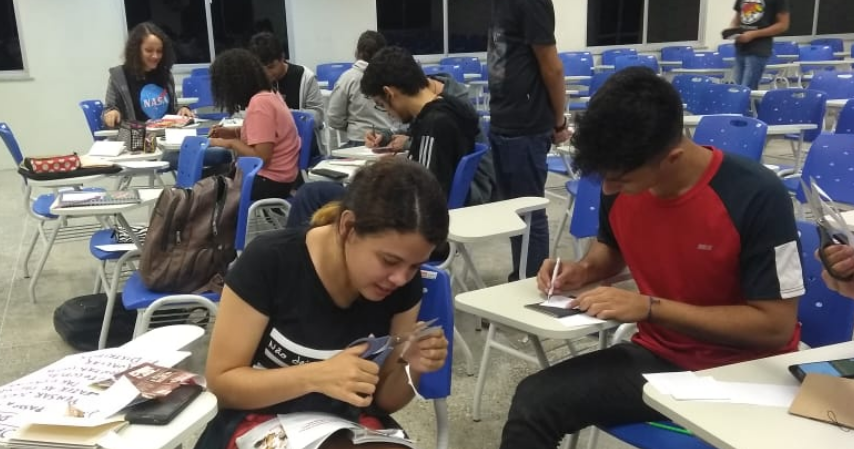
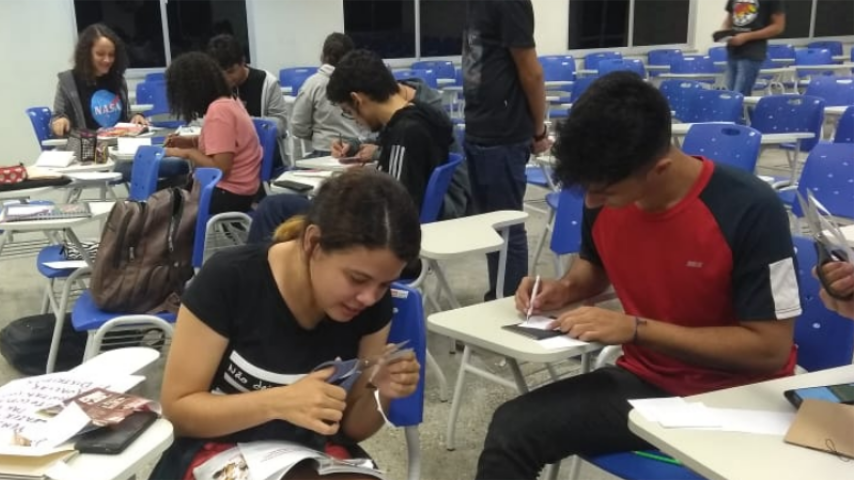
at fotos e capas redimensionadas

diff --git a/_posts/2019-03-08-passeio.md b/_posts/2019-03-08-passeio.md
@@ -4,7 +4,7 @@ layout: post
 title: Passeio no açude Cedro
 subtitle: Veja como foi esse dia aventureiro.
 description: 
-image: https://raw.githubusercontent.com/pacceqx/pacceqx.github.io/master/assets/pic/2019-03-08/capa.jpg
+image: https://raw.githubusercontent.com/pacceqx/pacceqx.github.io/master/assets/pic/2019-03-08/capa.png
 optimized_image: 
 category: evento
 tags:
@@ -16,14 +16,14 @@ author: lorenaamaro
 O Programa de Aprendizagem Cooperativa em Células Estudantis (PACCE) realizou, nos dias 7 e 8 de Março, um passeio ao Cedro, um dos pontos turísticos da cidade de Quixadá-CE.
 </p>
 
-![](https://raw.githubusercontent.com/pacceqx/pacceqx.github.io/master/assets/pic/2019-03-08/img1.jpg)
+![](https://raw.githubusercontent.com/pacceqx/pacceqx.github.io/master/assets/pic/2019-03-08/img1.png)
 
-![](https://raw.githubusercontent.com/pacceqx/pacceqx.github.io/master/assets/pic/2019-03-08/img2.jpg)
+![](https://raw.githubusercontent.com/pacceqx/pacceqx.github.io/master/assets/pic/2019-03-08/img2.png)
 
 <p style = "text-align: justify">
  O público-alvo foram os alunos calouros do campus, mas aberto a todo o corpo discente da universidade. O clima foi agradável, e a interação entre os estudantes foi promovida com êxito.
 </p>
-![](https://raw.githubusercontent.com/pacceqx/pacceqx.github.io/master/assets/pic/2019-03-08/img3.jpg)
+![](https://raw.githubusercontent.com/pacceqx/pacceqx.github.io/master/assets/pic/2019-03-08/img3.png)
 
-![](https://raw.githubusercontent.com/pacceqx/pacceqx.github.io/master/assets/pic/2019-03-08/img4.jpg)
+![](https://raw.githubusercontent.com/pacceqx/pacceqx.github.io/master/assets/pic/2019-03-08/img4.png)
 

diff --git a/_posts/2019-02-14-processo-seletivo.md b/_posts/2019-02-14-processo-seletivo.md
@@ -12,21 +12,21 @@ tags:
 author: lorenaamaro
 paginate: true
 ---
-![](https://raw.githubusercontent.com/pacceqx/pacceqx.github.io/master/assets/pic/2019-02-14/img1.jpg)
+![](https://raw.githubusercontent.com/pacceqx/pacceqx.github.io/master/assets/pic/2019-02-14/img1.png)
 
 
 <p style = "text-align: justify">
 O processo seletivo para bolsistas do PACCE de 2019 ocorreu nos dias 14 e 15 de Fevereiro. Do total de 15 bolsas, foram selecionados 8 veteranos e 7 calouros, que passaram por oficinas e uma entrevista avaliadora. O programa recebe, todo ano, um alto número de inscrições para seleção e ainda conta com alunos que se voluntariam à bolsa, mesmo sem direito à remuneração.
 </p>
 
-![](https://raw.githubusercontent.com/pacceqx/pacceqx.github.io/master/assets/pic/2019-02-14/img2.jpg)
+![](https://raw.githubusercontent.com/pacceqx/pacceqx.github.io/master/assets/pic/2019-02-14/img2.png)
 
 
 <p style = "text-align: justify">
 Neste ano de 2019, o número de voluntários foi de 9 alunos, entre veteranos e calouros de cursos variados.
 </p>
 
-![](https://raw.githubusercontent.com/pacceqx/pacceqx.github.io/master/assets/pic/2019-02-14/img3.jpg)
+![](https://raw.githubusercontent.com/pacceqx/pacceqx.github.io/master/assets/pic/2019-02-14/img3.png)
 
 
 <p style = "text-align: justify">
@@ -47,7 +47,7 @@ Paula Luana Oliveira da Silva <br>
 Shelida Crislane Matias Monte.
 </p>
 
-![](https://raw.githubusercontent.com/pacceqx/pacceqx.github.io/master/assets/pic/2019-02-14/img4.jpg)
+![](https://raw.githubusercontent.com/pacceqx/pacceqx.github.io/master/assets/pic/2019-02-14/img4.png)
 
 <p>
 Os alunos que se voluntariaram ao programa foram:<br>

diff --git a/_posts/2019-05-04-visita-ao-remanso.md b/_posts/2019-05-04-visita-ao-remanso.md
@@ -4,7 +4,7 @@ layout: post
 title: Visita ao lar de idosos
 subtitle: Clique para ver como foi essa visita emocionante.
 description: 
-image: https://raw.githubusercontent.com/pacceqx/pacceqx.github.io/master/assets/pic/2019-05-04/capa.jpg
+image: https://raw.githubusercontent.com/pacceqx/pacceqx.github.io/master/assets/pic/2019-05-04/capa.png
 optimized_image:
 category: noticia
 tags:
@@ -14,7 +14,7 @@ author: lorenaamaro
 paginate: true
 ---
 
-![](https://raw.githubusercontent.com/pacceqx/pacceqx.github.io/master/assets/pic/2019-05-04/img1.jpg)
+![](https://raw.githubusercontent.com/pacceqx/pacceqx.github.io/master/assets/pic/2019-05-04/img1.png)
 
 
 <p style = "text-align: justify">
@@ -23,7 +23,7 @@ No dia 04 de Maio, Sábado, os bolsistas do PACCE realizaram a formação semana
 que fica localizada na Rua Rui Barbosa 63900, Quixadá. Foram realizadas atividades diversas como história de vida, música acústica com os bolsistas Lorena Amaro e Fábio Luz, momento de conversa e dança (forró). Dentre as atividades, um momento especial: Uma homenagem a um dos idosos que estava aniversariando, o Sr. Rodrigues.
 </p>
 
-![](https://raw.githubusercontent.com/pacceqx/pacceqx.github.io/master/assets/pic/2019-05-04/img2.jpg)
+![](https://raw.githubusercontent.com/pacceqx/pacceqx.github.io/master/assets/pic/2019-05-04/img2.png)
 
 <p style = "text-align: justify">
  O PACCE mostra que seus pilares, em especial as habilidades sociais, vão além dos muros da universidade e que boas ações sempre devem ser compartilhadas. Espalhe o amor!

diff --git a/_posts/2019-04-11-visita-navi.md b/_posts/2019-04-11-visita-navi.md
@@ -4,7 +4,7 @@ layout: post
 title: Visita ao NAVI do IFCE
 subtitle: Encontro realizado pela célula de audiovisual.
 description: 
-image: https://raw.githubusercontent.com/pacceqx/pacceqx.github.io/master/assets/pic/2019-04-11/capa.jpg
+image: https://raw.githubusercontent.com/pacceqx/pacceqx.github.io/master/assets/pic/2019-04-11/capa.png
 optimized_image: 
 category: noticia
 tags:
@@ -25,11 +25,11 @@ paginate: true
 No dia 11 de Abril, Quinta, a célula de audiovisual fez uma visita ao NAVI, um núcleo de pesquisa e experimentos audiovisuais do Instituto Federal do Ceará (IFCE), Campus Quixadá. A visita foi aprovada pelo diretor do laboratório de audiovisual, Geraldo, que falou sobre processos de construção de vídeo, roteiro e planos de câmera. Essa galerinha deu show!
 </p>
 
-![](https://raw.githubusercontent.com/pacceqx/pacceqx.github.io/master/assets/pic/2019-04-11/img1.jpg)
+![](https://raw.githubusercontent.com/pacceqx/pacceqx.github.io/master/assets/pic/2019-04-11/img1.png)
 
-![](https://raw.githubusercontent.com/pacceqx/pacceqx.github.io/master/assets/pic/2019-04-11/img2.jpg)
+![](https://raw.githubusercontent.com/pacceqx/pacceqx.github.io/master/assets/pic/2019-04-11/img2.png)
 
-![](https://raw.githubusercontent.com/pacceqx/pacceqx.github.io/master/assets/pic/2019-04-11/img3.jpg)
+![](https://raw.githubusercontent.com/pacceqx/pacceqx.github.io/master/assets/pic/2019-04-11/img3.png)
 
 
 

diff --git a/_posts/2019-05-08-roda-conversa.md b/_posts/2019-05-08-roda-conversa.md
@@ -4,7 +4,7 @@ layout: post
 title: Roda de conversa
 subtitle: Encontro realizado pela célula de desenvolvimento web.
 description: 
-image: https://raw.githubusercontent.com/pacceqx/pacceqx.github.io/master/assets/pic/2019-05-08/capa.jpg
+image: https://raw.githubusercontent.com/pacceqx/pacceqx.github.io/master/assets/pic/2019-05-08/capa.png
 optimized_image: 
 category: evento
 tags:
@@ -23,7 +23,7 @@ No dia 8 de Maio, Quarta, de 13:30 às 15:30, O PACCE, juntamente com a célula 
  Atualmente, é professor assistente e vice coordenador do curso de Sistemas de Informação, na Universidade Federal do Ceará (UFC), no campus de Quixadá. <br><br>
  </p>
 
-![](https://raw.githubusercontent.com/pacceqx/pacceqx.github.io/master/assets/pic/2019-05-08/img1.jpeg)
+![](https://raw.githubusercontent.com/pacceqx/pacceqx.github.io/master/assets/pic/2019-05-08/img1.png)
 
 <p style = "text-align: justify">
  Tivemos também a participação do aluno Emerson Vieira, graduando de Engenharia de Software, na Universidade Federal do Ceará (UFC), Campus Quixadá. Tem pouco mais de um ano de experiência com desenvolvimento web. Além de HTML, CSS e JS (Java Script), trabalhou com libs/frameworks, como Angular, React e Vue, no Frontend. Como backend, trabalhou com Django (Python), Node (Js) e Spring Boot (Java). O número de participantes foi de 51 estudantes, e a palestra rendeu um bom aprendizado.

diff --git a/_posts/2019-05-09-2º-PACCE-por-aqui.md b/_posts/2019-05-09-2º-PACCE-por-aqui.md
@@ -25,16 +25,16 @@ Carimbo;<br>
 Bandeirinha.<br>
 </p>
 
-![](https://raw.githubusercontent.com/pacceqx/pacceqx.github.io/master/assets/pic/2019-05-09/img1.JPG)
+![](https://raw.githubusercontent.com/pacceqx/pacceqx.github.io/master/assets/pic/2019-05-09/img1.png)
 
-![](https://raw.githubusercontent.com/pacceqx/pacceqx.github.io/master/assets/pic/2019-05-09/img2.JPG)
+![](https://raw.githubusercontent.com/pacceqx/pacceqx.github.io/master/assets/pic/2019-05-09/img2.png)
 
-![](https://raw.githubusercontent.com/pacceqx/pacceqx.github.io/master/assets/pic/2019-05-09/img3.JPG)
+![](https://raw.githubusercontent.com/pacceqx/pacceqx.github.io/master/assets/pic/2019-05-09/img3.png)
 
-![](https://raw.githubusercontent.com/pacceqx/pacceqx.github.io/master/assets/pic/2019-05-09/img4.JPG)
+![](https://raw.githubusercontent.com/pacceqx/pacceqx.github.io/master/assets/pic/2019-05-09/img4.png)
 
-![](https://raw.githubusercontent.com/pacceqx/pacceqx.github.io/master/assets/pic/2019-05-09/img5.JPG)
+![](https://raw.githubusercontent.com/pacceqx/pacceqx.github.io/master/assets/pic/2019-05-09/img5.png)
 
-![](https://raw.githubusercontent.com/pacceqx/pacceqx.github.io/master/assets/pic/2019-05-09/img6.JPG)
+![](https://raw.githubusercontent.com/pacceqx/pacceqx.github.io/master/assets/pic/2019-05-09/img6.png)
 
 

diff --git a/_posts/2019-05-27-Workshop-de-fanzine.md b/_posts/2019-05-27-Workshop-de-fanzine.md
@@ -18,7 +18,7 @@ paginate: true
 Nesta segunda-feira , 27 de Maio, às 15:30, o PACCE, juntamente com a célula de arquitetura reciclável, realizou um workshop pra lá de especial sobre produção de fanzines, que são publicações feitas em pequenas tiragens, sem fins lucrativos, que priorizam a criatividade, o (re)uso de materiais disponíveis e a troca de exemplares. Também chamadas de zines, essas publicações iniciam-se como espaço para discutir, trocar informações e divulgar trabalhos amadores acerca de um tema.<br>
 </p>
 
-![](https://raw.githubusercontent.com/pacceqx/pacceqx.github.io/master/assets/pic/2019-05-27/img1.jpg)
+![](https://raw.githubusercontent.com/pacceqx/pacceqx.github.io/master/assets/pic/2019-05-27/img1.png)
 Imagem tirada da internet.<br>
 
 ![](https://raw.githubusercontent.com/pacceqx/pacceqx.github.io/master/assets/pic/2019-05-27/img2.png)

diff --git a/_posts/2019-04-25-PACCEI-2019.md b/_posts/2019-04-25-PACCEI-2019.md
@@ -25,9 +25,9 @@ Confira alguns registro desse dia:
 <br>
 </p>
 
-![](https://raw.githubusercontent.com/pacceqx/pacceqx.github.io/master/assets/pic/2019-04-25/img1.JPG)
-![](https://raw.githubusercontent.com/pacceqx/pacceqx.github.io/master/assets/pic/2019-04-25/img2.JPG)
-![](https://raw.githubusercontent.com/pacceqx/pacceqx.github.io/master/assets/pic/2019-04-25/img3.JPG)
+![](https://raw.githubusercontent.com/pacceqx/pacceqx.github.io/master/assets/pic/2019-04-25/img1.png)
+![](https://raw.githubusercontent.com/pacceqx/pacceqx.github.io/master/assets/pic/2019-04-25/img2.png)
+![](https://raw.githubusercontent.com/pacceqx/pacceqx.github.io/master/assets/pic/2019-04-25/img3.png)
 
 
 

diff --git a/_posts/2019-03-20-1º-PACCE-por-aqui.1.md b/_posts/2019-03-20-1º-PACCE-por-aqui.1.md
@@ -4,7 +4,7 @@ layout: post
 title: 1º PACCE por aqui
 subtitle: Diversos jogos e atividades para descontrair.
 description: 
-image:  https://raw.githubusercontent.com/pacceqx/pacceqx.github.io/master/assets/pic/2019-03-20/capa.jpg
+image:  https://raw.githubusercontent.com/pacceqx/pacceqx.github.io/master/assets/pic/2019-03-20/capa.png
 optimized_image: 
 category: evento
 tags:
